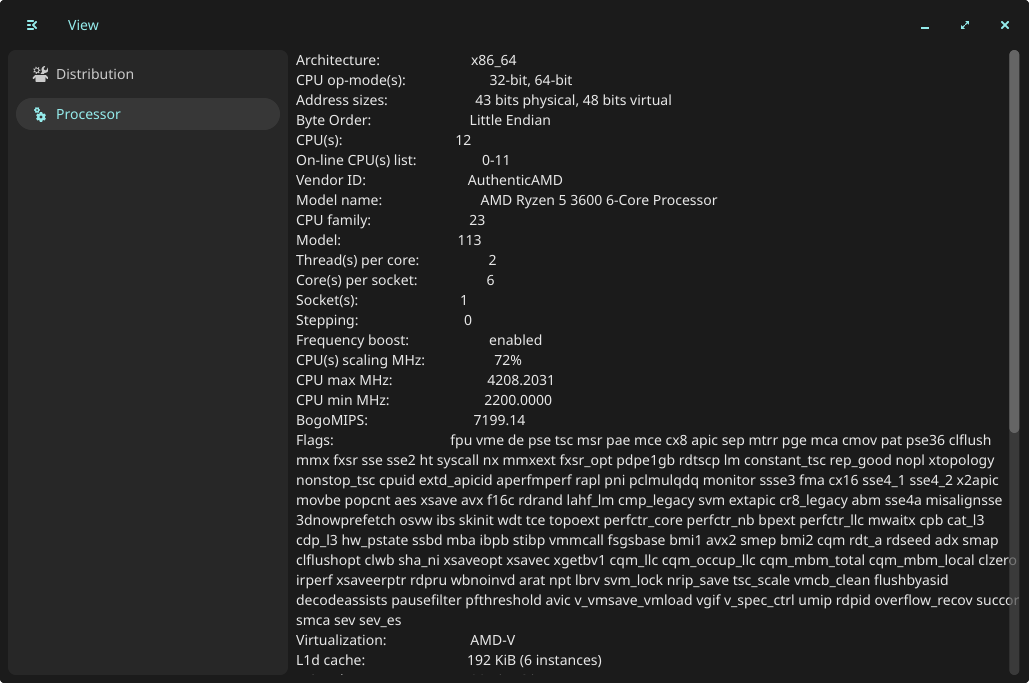
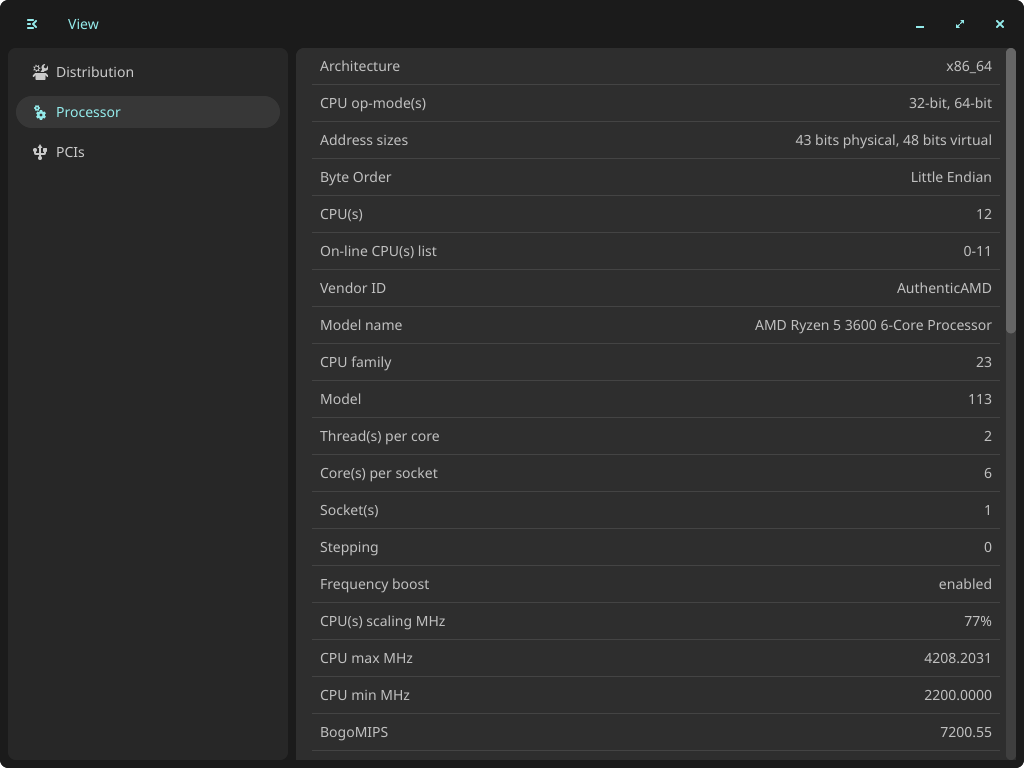
PCI Devices page

diff --git a/src/app.rs b/src/app.rs
@@ -23,6 +23,7 @@ pub struct AppModel {
     key_binds: HashMap<menu::KeyBind, MenuAction>,
     config: Config,
     lscpu: Option<String>,
+    lspci: Option<String>,
 }
 
 #[derive(Debug, Clone)]
@@ -64,6 +65,11 @@ impl Application for AppModel {
             .data::<Page>(Page::Processor)
             .icon(icon::from_name("system-run-symbolic"));
 
+        nav.insert()
+            .text(fl!("pci-devices"))
+            .data::<Page>(Page::PCI)
+            .icon(icon::from_name("drive-harddisk-usb-symbolic"));
+
         let mut app = AppModel {
             core,
             context_page: ContextPage::default(),
@@ -76,6 +82,7 @@ impl Application for AppModel {
                 })
                 .unwrap_or_default(),
             lscpu: None,
+            lspci: None,
         };
 
         let lscpu_cmd = std::process::Command::new("lscpu").output().unwrap();
@@ -83,6 +90,14 @@ impl Application for AppModel {
             Ok(lscpu) => app.lscpu = Some(lscpu),
             Err(err) => {
                 eprintln!("Error parsing lscpu: {}", err);
+            }
+        }
+
+        let lspci_cmd = std::process::Command::new("lspci").output().unwrap();
+        match String::from_utf8(lspci_cmd.stdout) {
+            Ok(lspci) => app.lspci = Some(lspci),
+            Err(err) => {
+                eprintln!("Error parsing lspci: {}", err);
             }
         }
 
@@ -323,7 +338,7 @@ impl Application for AppModel {
             }
             Some(Page::Processor) => {
                 let Some(lscpu) = &self.lscpu else {
-                    return widget::text::title1(fl!("no-page")).into();
+                    return widget::text::title1(fl!("something-went-wrong")).into();
                 };
                 let lscpu = lscpu
                     .lines()
@@ -337,7 +352,25 @@ impl Application for AppModel {
                 for item in lscpu {
                     section = section.add(item);
                 }
-                section.apply(cosmic::iced::widget::scrollable).into()
+                section.apply(widget::scrollable).into()
+            }
+            Some(Page::PCI) => {
+                let Some(lspci) = &self.lspci else {
+                    return widget::text::title1(fl!("something-went-wrong")).into();
+                };
+                let lspci = lspci
+                    .lines()
+                    .map(|line: &str| {
+                        let (prefix, suffix) = line.split_once(": ").unwrap();
+                        widget::settings::item(suffix, widget::text::body(prefix)).into()
+                    })
+                    .collect::<Vec<Element<Message>>>();
+
+                let mut section = widget::settings::view_section("");
+                for item in lspci {
+                    section = section.add(item);
+                }
+                section.apply(widget::scrollable).into()
             }
             None => widget::text::title1(fl!("no-page")).into(),
         };
@@ -440,6 +473,7 @@ impl AppModel {
 pub enum Page {
     Distribution,
     Processor,
+    PCI,
 }
 
 /// The context page to display in the context drawer.
